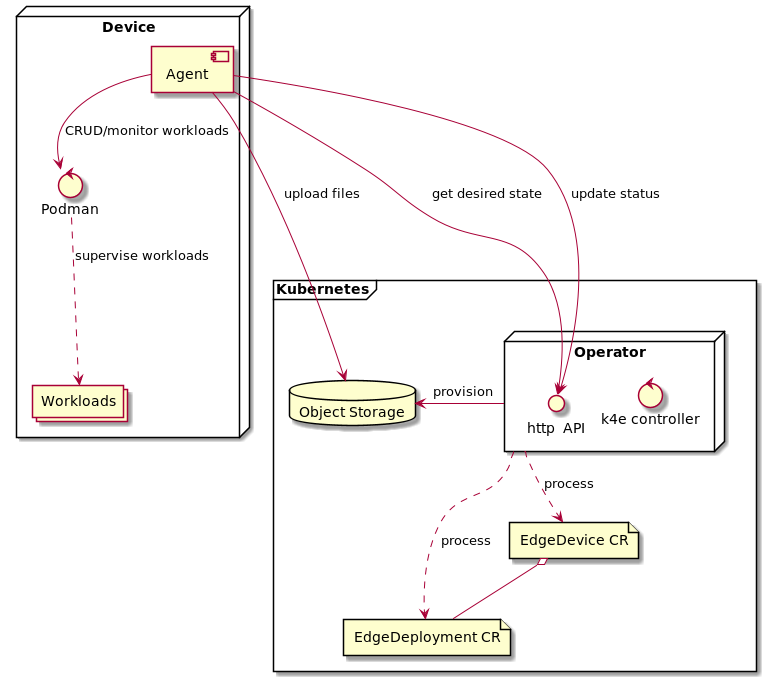
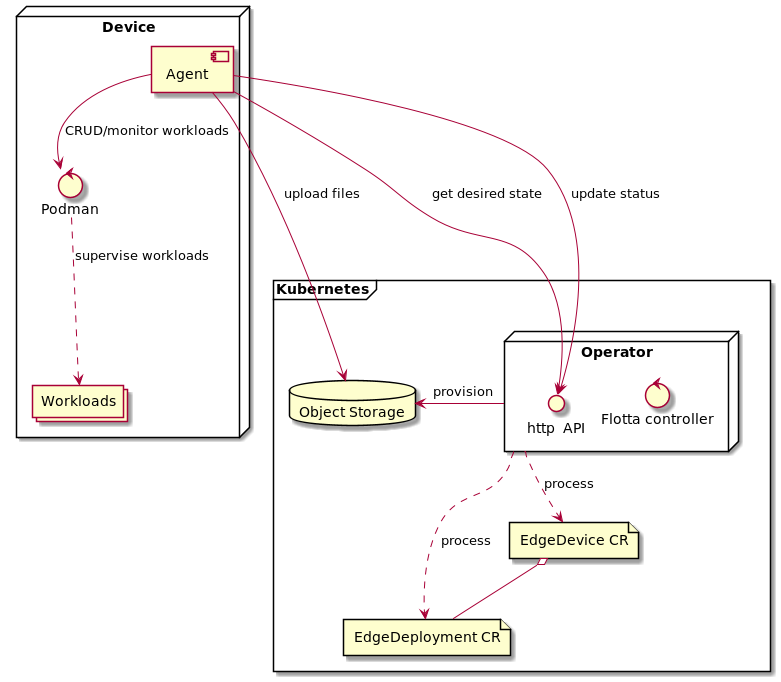
Documentation update

diff --git a/docs/design/data-upload.md b/docs/design/data-upload.md
@@ -1,7 +1,7 @@
 # Data Upload
 
 ## Design
-K4e agent and Operator provide functionality of uploading contents of on-device directories to control-plane object storage.
+Flotta agent and Operator provide functionality of uploading contents of on-device directories to control-plane object storage.
 User can choose between in-cluster OCS storage or external storage.
 OCS takes precedence over external storage.
 The architecture of that solution is depicted by the diagrams below.
@@ -81,7 +81,7 @@ Go to `Settings` for viewing and editing the region.
 
 ## Get configuration
 
-The k4e agent periodically downloads configuration from the k4e operator and part of that configuration is data paths mapping for data upload - specified in each `EdgeDeployment`:
+The Flotta agent periodically downloads configuration from the Flotta operator and part of that configuration is data paths mapping for data upload - specified in each `EdgeDeployment`:
 ```yaml
 spec:
   data: 
@@ -97,7 +97,7 @@ Each `path` specifies which on-device directory (`source`) should be synchronize
 
 The `/export` directory is shared among containers of one workload (pod), but different workloads (pods) have them separate; each workload has `/export` directory backed by different host path volume. It is added automatically and should not be part of the `EdgeDeployment`.
 
-The device configuration provided by the k4e operator also contains S3 connection details (endpoint URL, bucket name, keys) for connecting to a bucket.
+The device configuration provided by the Flotta operator also contains S3 connection details (endpoint URL, bucket name, keys) for connecting to a bucket.
 
 ### Example
 
@@ -148,6 +148,6 @@ In this case on-device `/export/stats` directory will be synced to a `statistics
 
 ## Upload files
 
-The k4e agent synchronizes paths specified in the configuration every 15 seconds. Only new or changed files are transferred. 
+The Flotta agent synchronizes paths specified in the configuration every 15 seconds. Only new or changed files are transferred. 
 
 Files removed on the device are not removed from the storage.

diff --git a/docs/user-guide/running.md b/docs/user-guide/running.md
@@ -1,12 +1,12 @@
-# Running k4e
+# Running Flotta
 
 The components need to be started in following order:
  - Operator
  - Agent
-   - Install k4e-device-worker
+   - Install flotta-device-worker
    - Run yggdrasil
 
-When yggdrasil with k4e-device-worker installed is started, it registers the device in the Operator -  EdgeDevice CR representing the device is automatically created in the k8s cluster.
+When yggdrasil with flotta-device-worker installed is started, it registers the device in the Operator -  EdgeDevice CR representing the device is automatically created in the k8s cluster.
 
 When your environment is running, you can [deploy your workload](deploying-workloads.md).
 
@@ -62,7 +62,7 @@ To force device re-registration remove EdgeDevice CR from the cluster and `/var/
 ---
 **Warning**
 
-Following step should be done after k4e-device-worker is installed on the edge device
+Following step should be done after flotta-device-worker is installed on the edge device
 
 ---
 
@@ -70,7 +70,7 @@ Start yggdrasil with from the yggdrasil repository directory:
 
 `sudo go run ./cmd/yggd --log-level trace --transport http --cert-file /etc/pki/consumer/cert.pem --key-file /etc/pki/consumer/key.pem --client-id-source machine-id --http-server <your.k8s-ingress:8888>`
 
-### k4e-device-worker
+### flotta-device-worker
 
 #### Prerequisites
 
@@ -82,7 +82,7 @@ On the build machine:
   - gpgme-devel
   - device-mapper-devel
   - podman
-- Checkout https://github.com/jakub-dzon/k4e-device-worker repository 
+- Checkout https://github.com/project-flotta/flotta-device-worker repository 
 
 On the edge device:
  
@@ -114,7 +114,7 @@ Execute following steps on the build machine:
 
 ##### Installing 
 
-1. Upload <k4e-device-worker repo dir>/bin/device-worker to `/usr/local/libexec/yggdrasil` directory on the edge device
+1. Upload <flotta-device-worker repo dir>/bin/device-worker to `/usr/local/libexec/yggdrasil` directory on the edge device
 2. Make sure that `/usr/local/libexec/yggdrasil/device-worker` is executable
 
 

diff --git a/docs/design/design.md b/docs/design/design.md
@@ -8,13 +8,13 @@
 
 #### Operator
 
-The k4e operator is a Kubernetes operator that consists of two components:
+The Flotta operator is a Kubernetes operator that consists of two components:
  - controller responsible for reconciling `EdgeDevice` and `EdgeDeployment` CRs;
- - HTTP API that is used by the k4e agent to get expected configuration and to post heartbeat messages. See [HTTP API schema](http-api.md) for more details.
+ - HTTP API that is used by the Flotta agent to get expected configuration and to post heartbeat messages. See [HTTP API schema](http-api.md) for more details.
 
 #### Object Storage
 
-Object Storage is used to store files created by workloads on devices and uploaded using k4e built-in mechanism.
+Object Storage is used to store files created by workloads on devices and uploaded using Flotta built-in mechanism.
 
 Object Bucket Claims provided by OCS and Noobaa and accessible with like S3 buckets. 
 
@@ -43,7 +43,7 @@ Agent is running constantly on the edge device and responsible for:
 
 Agent is running in two processes:
  - [yggdrasil](https://github.com/jakub-dzon/yggdrasil/) - gateway service responsible for communication with the control plane; dispatches messages to and from the control plane from/to workers (extensions);
- - [device-worker](https://github.com/jakub-dzon/k4e-device-worker) - yggdrasil worker responsible for performing all the logic listed above.
+ - [device-worker](https://github.com/project-flotta/flotta-device-worker) - yggdrasil worker responsible for performing all the logic listed above.
 
 
 ## Workflows
@@ -52,7 +52,7 @@ Agent is running in two processes:
 
 ![](pairing.png)
 
- 1. User boots the edge device with k4e device ISO
+ 1. User boots the edge device with Flotta device ISO
  2. Agent service is started by systemd
  3. Agent sends pairing/registration request containing device's hardware information to the control plane (Operator's HTTP endpoint) 
  4. Operator creates `EdgeDevice` resource representing the registering device

diff --git a/docs/user-guide/device-metrics.md b/docs/user-guide/device-metrics.md
@@ -6,7 +6,7 @@ be configured.
 ## System metrics
 
 ### Collection frequency
-System metrics collection is enabled by default and the k4e agent will start gathering them when the device is started - 
+System metrics collection is enabled by default and the Flotta agent will start gathering them when the device is started - 
 with default intervals of **60** seconds. Said interval can be customized by setting desired frequency (in seconds) in
 an `EdgeDevice` CR.
 

diff --git a/CONTRIBUTING.md b/CONTRIBUTING.md
@@ -18,7 +18,7 @@ following link:
 
 ## Developer environment
 
-By default, all k4e projects rely on Makefiles, where users can run all the
+By default, all Flotta projects rely on Makefiles, where users can run all the
 workflows operations.
 
 To make it easier, all Makefiles implement a help section to see the actions you
